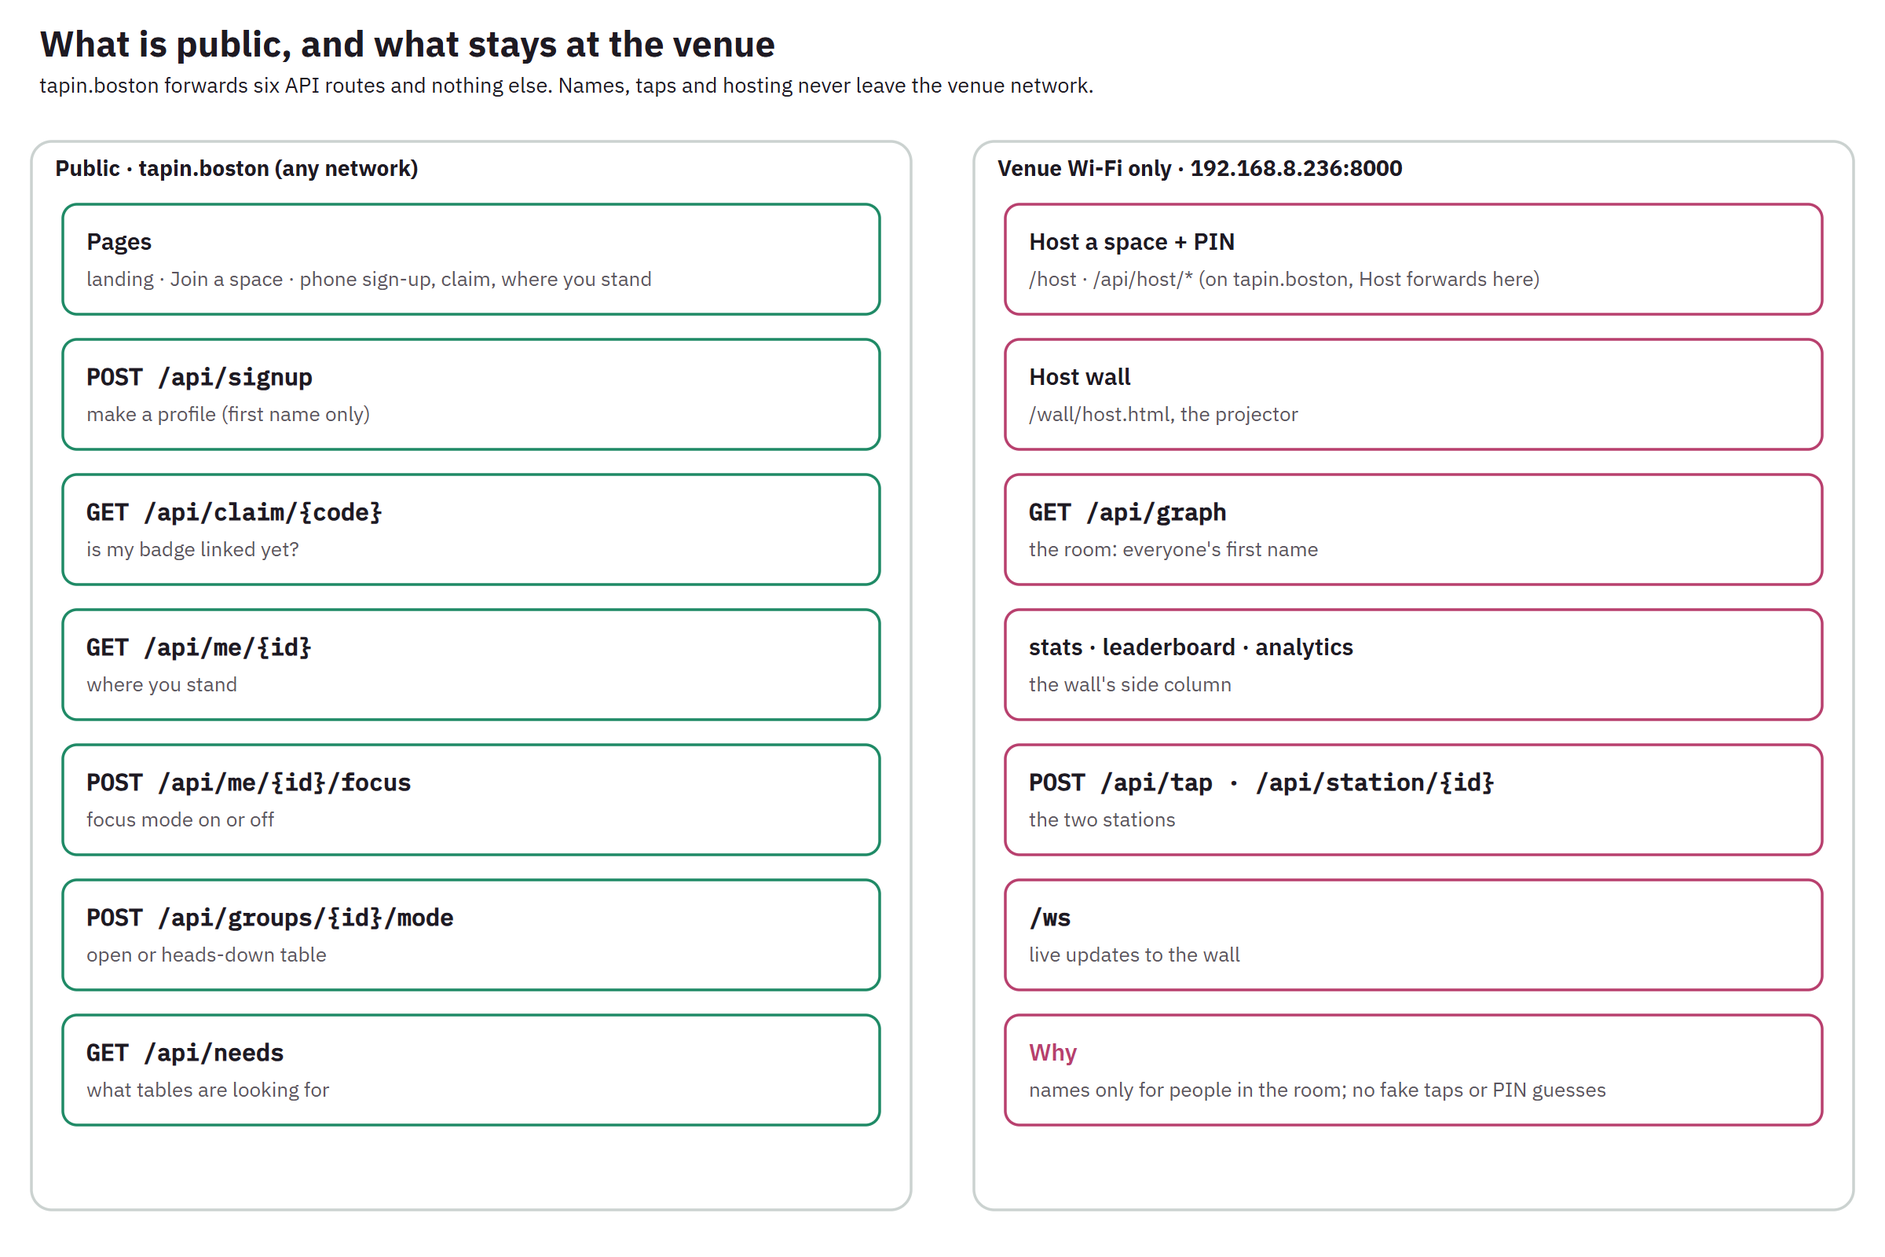
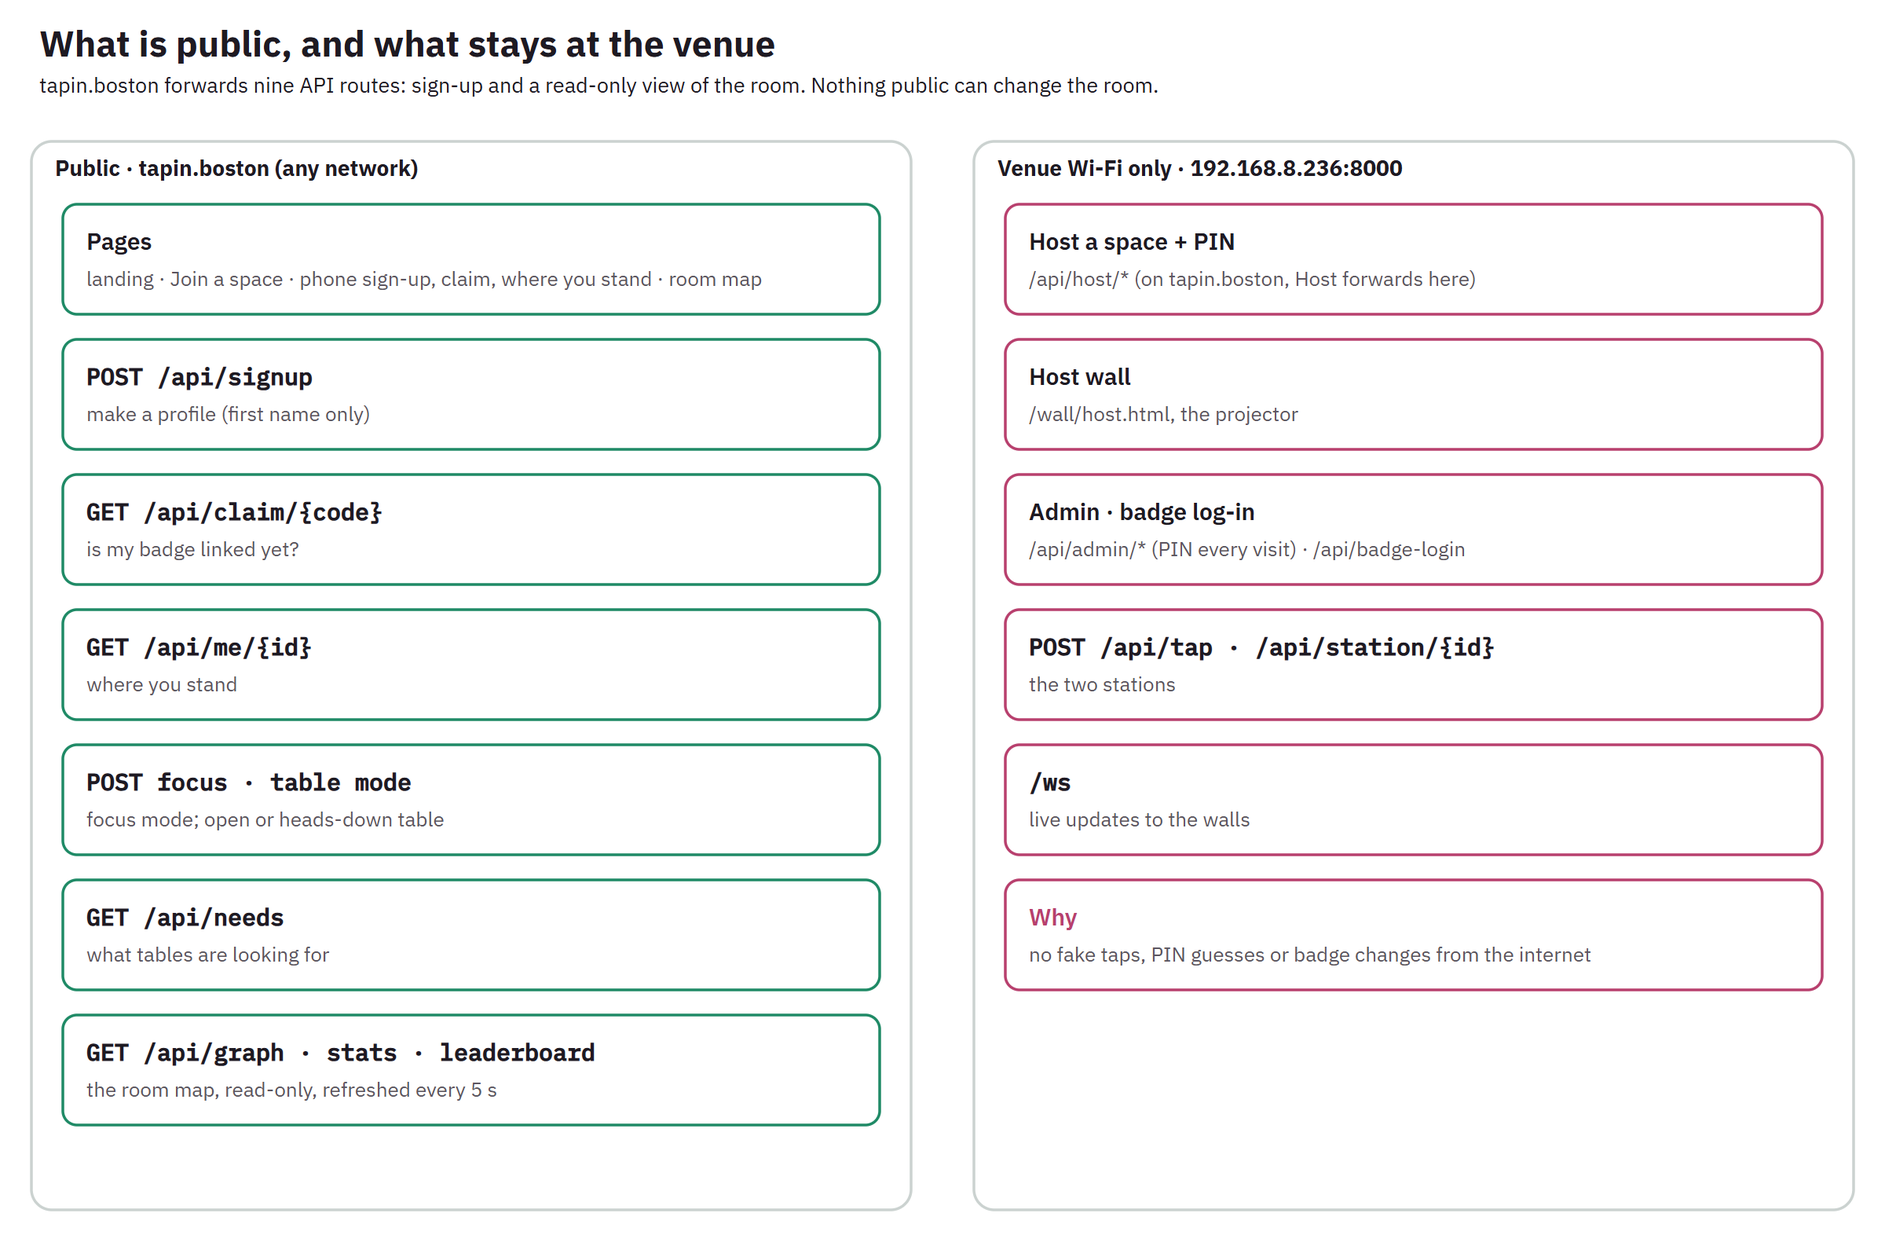
Devpost and README match tonight's build: one member tapping in joins a table, 6 s window, the public room map (nine routes), admin and badge log-in venue-only, PR count, live tapin.boston, setup paths, station config, the hourly aggregate; access.png re-rendered

diff --git a/media/devpost/src/diagrams.py b/media/devpost/src/diagrams.py
@@ -293,28 +293,27 @@ def system():
 def access():
     c = Canvas(2400, 1600)
     c.text(50, 72, "What is public, and what stays at the venue", size=46, weight=700)
-    c.text(50, 118, "tapin.boston forwards six API routes and nothing else. Names, taps and hosting never leave the venue network.", size=27)
+    c.text(50, 118, "tapin.boston forwards nine API routes: sign-up and a read-only view of the room. Nothing public can change the room.", size=27)
     c.group(40, 180, 1120, 1360, "Public · tapin.boston (any network)")
-    rows = [("Pages", "landing · Join a space · phone sign-up, claim, where you stand"),
+    rows = [("Pages", "landing · Join a space · phone sign-up, claim, where you stand · room map"),
             ("POST /api/signup", "make a profile (first name only)"),
             ("GET /api/claim/{code}", "is my badge linked yet?"),
             ("GET /api/me/{id}", "where you stand"),
-            ("POST /api/me/{id}/focus", "focus mode on or off"),
-            ("POST /api/groups/{id}/mode", "open or heads-down table"),
-            ("GET /api/needs", "what tables are looking for")]
+            ("POST focus · table mode", "focus mode; open or heads-down table"),
+            ("GET /api/needs", "what tables are looking for"),
+            ("GET /api/graph · stats · leaderboard", "the room map, read-only, refreshed every 5 s")]
     for i, (a, b) in enumerate(rows):
         y = 260 + i * 172
         c.rect(80, y, 1040, 140, stroke=GREEN, fill="#fff", sw=3.5, rx=18)
         c.text(110, y + 58, a, size=30, weight=600, mono=a.startswith(("POST", "GET")))
         c.text(110, y + 104, b, size=26, color=SOFT)
     c.group(1240, 180, 1120, 1360, "Venue Wi-Fi only · 192.168.8.236:8000")
-    rows = [("Host a space + PIN", "/host · /api/host/* (on tapin.boston, Host forwards here)"),
+    rows = [("Host a space + PIN", "/api/host/* (on tapin.boston, Host forwards here)"),
             ("Host wall", "/wall/host.html, the projector"),
-            ("GET /api/graph", "the room: everyone's first name"),
-            ("stats · leaderboard · analytics", "the wall's side column"),
+            ("Admin · badge log-in", "/api/admin/* (PIN every visit) · /api/badge-login"),
             ("POST /api/tap · /api/station/{id}", "the two stations"),
-            ("/ws", "live updates to the wall"),
-            ("Why", "names only for people in the room; no fake taps or PIN guesses")]
+            ("/ws", "live updates to the walls"),
+            ("Why", "no fake taps, PIN guesses or badge changes from the internet")]
     for i, (a, b) in enumerate(rows):
         y = 260 + i * 172
         c.rect(1280, y, 1040, 140, stroke=RASP, fill="#fff", sw=3.5, rx=18)

diff --git a/README.md b/README.md
@@ -4,7 +4,7 @@
 
 <!-- Demo GIF goes here once the 5 PM checkpoint works: docs/tap-to-wall.gif (a badge tap lighting up the wall). -->
 
-Built at BostonHacks 2026 for the **Boundless Boston** track and the **Spark! Hack Our Space** subtrack. We plan to serve it at tapin.boston (not registered yet).
+Built at BostonHacks 2026 for the **Boundless Boston** track and the **Spark! Hack Our Space** subtrack. Live at **[tapin.boston](https://tapin.boston)**.
 
 ## The problem
 
@@ -20,14 +20,17 @@ There is one action: **tap**. The server groups taps that land on the same stati
 |---|---|
 | 1 badge | **Check-in.** You light up on the wall as "here now", with lines to people you already know and the open groups that fit you. |
 | 2+ badges, none in a group | **New group.** Everyone is linked to each other and lands on the map as one cluster. |
-| 2+ badges, one already in a group | **Join.** The others join that group and get linked to every member. |
+| 2+ badges, one already at a table | **Join.** The others join that table (the one at this station wins; otherwise the table with the most people in the scan) and leave their old table. Everyone in the scan is linked. |
 | A mentor or staff badge in the scan | **Help.** The group's need is marked handled and the mentor shows as a bridge between groups. |
 | Everyone already met | **Repeat.** No points; the connection gets stronger. |
 
-A join only counts when the whole group scans in at the same station, so the hardware itself proves people actually met.
+A join only counts when the newcomer and someone from the table tap the same station together, so the hardware itself proves people actually met. A person is in one station's scan at a time.
 
 - **Phone site:** sign up in about 30 seconds (first name, up to 3 skills, up to 2 "looking for" tags), then tap any blank badge to claim it. Your "where you stand" page shows people you know who are here, your top groups with a reason ("Table 2 needs firmware"), and your points.
-- **Wall display:** a live room view where each group is a cluster labeled with its table and what it's building, plus stats, a leaderboard, a needs board, and an activity log. It plays a pentatonic bell when someone arrives and a pluck for every new link.
+- **Host wall** (`/wall/host.html`, the projector): the room plan with tables by letter, stats, groups by points, a needs board and an activity log. Every event plays a note from one pentatonic scale: a bell in your own note when you arrive, plucks for new links, a trolley bell every 10th person. Quiet mode (`?mode=quiet`, or the gear panel) is for study hours.
+- **Room map** (`/wall/`): your own view of the room on your phone, with your table, the people you know and your profile.
+- **Front door:** `/landing/` with Join a space (sign up, or log in by tapping your badge) and Host a space (host PIN, then create or open an event).
+- **Admin** (`/host/admin.html`, venue network, PIN every visit): unlink a badge, give someone a new badge with live status, remove test profiles.
 - **Modes:** groups can be open or heads-down, and people can check in on focus mode. Heads-down groups and focus people are never suggested.
 - **Points:** +1 for your first check-in of the day, +5 for each new person you connect with, +10 for joining a group, and +5 to each current member when someone joins. The group's points double when the newcomer had fewer than 2 connections.
 
@@ -68,9 +71,8 @@ Phone screenshots were taken in FAKE mode (hard-coded sample data, no server), u
 
 ## From the build
 
-| The wall, demo mode | Building on Saturday |
-|---|---|
-| ![The wall in demo mode: tables as clusters with their needs, a check-in ring, and the template suggestion line](docs/media/wall-demo.gif) |
+![The wall in demo mode: tables as clusters with their needs, a check-in ring, and the template suggestion line](docs/media/wall-demo.gif)
+
 The wall recording is in demo mode with sample people, not real sign-ups. Full 29 s clip: [docs/media/wall-demo.mov](docs/media/wall-demo.mov).
 
 ## Station wiring
@@ -122,8 +124,10 @@ python tools/check_db.py          # checks the database connection and Timescale
 uvicorn server.main:app --host 0.0.0.0 --port 8000
 ```
 
-- Wall: `http://<server-ip>:8000/wall`. Click **Start** once to enable sound.
-- Phone: `http://<server-ip>:8000/phone`
+- Front door: `http://<server-ip>:8000/landing/`
+- Host wall (projector): `http://<server-ip>:8000/wall/host.html`. Sound starts on the first click.
+- Phone sign-up: `http://<server-ip>:8000/phone/`
+- Admin: `http://<server-ip>:8000/host/admin.html` (needs `HOST_PIN` in `.env`)
 - No internet? Run the same schema on a local TimescaleDB with `docker run -d -p 5432:5432 -e POSTGRES_PASSWORD=tapin timescale/timescaledb:latest-pg16`, then point `DATABASE_URL` at it.
 
 **Without hardware:**
@@ -139,7 +143,7 @@ python tools/count.py                                           # real people, g
 
 Fake badges always start with `5EED`, so `count.py` reports only real people. Never run `tools/seed.py --reset` after recruiting starts: it deletes every real sign-up.
 
-**Stations:** open `firmware/station.ino` in the Arduino IDE with ESP32 support installed, set `STATION_ID` (1 or 2) at the top, and upload. Stations join the private 2.4 GHz `TapIn` network and talk to the server at `192.168.8.100:8000`.
+**Stations:** open `firmware/station.ino` in the Arduino IDE with ESP32 support installed, set `STATION_ID` (1 or 2) at the top, and upload. Put the Wi-Fi name and password, and the server's address as `SERVER_URL`, in `firmware/station/secrets.h` (copy `secrets.example.h`). At the venue that's the 2.4 GHz `cmap` network and `http://192.168.8.236:8000`.
 
 ## Built on Tiger Data
 
@@ -149,7 +153,8 @@ Taps are time-series data, so Tap In runs on [Tiger Data](https://www.tigerdata.
 |---|---|---|
 | `taps` | hypertable on `ts` | Every raw tap: station, badge UID and result |
 | `scan_events` | hypertable on `ts` | Every resolved scan: check-in, join, new group, repeat or help, with its size and group |
-| `scans_per_10min` | continuous aggregate (being added with the stats panel) | Scans per 10 minutes by station and kind, for the live stats chart |
+| `scans_per_10min` | real-time continuous aggregate | Scans per 10 minutes by station and kind, for the live stats chart |
+| `scans_per_hour` | hierarchical continuous aggregate on `scans_per_10min` | Scans per hour by station, for the busiest-station view |
 | `people`, `groups`, `group_members`, `connections`, `needs` | regular tables | Profiles, groups, the connection graph and open needs |
 
 ```sql
@@ -205,9 +210,9 @@ tools/board unread      # catch up on the board
 - **Server:** [FastAPI](https://fastapi.tiangolo.com), [Uvicorn](https://www.uvicorn.org), [asyncpg](https://github.com/MagicStack/asyncpg), [HTTPX](https://www.python-httpx.org)
 - **Database:** [Tiger Data](https://www.tigerdata.com) / [TimescaleDB](https://github.com/timescale/timescaledb)
 - **AI:** [Google Gemini API](https://ai.google.dev)
-- **Wall display:** [d3](https://d3js.org), [Tone.js](https://tonejs.github.io), [IBM Plex](https://github.com/IBM/plex)
+- **Wall display:** [Tone.js](https://tonejs.github.io), [IBM Plex](https://github.com/IBM/plex), [Bricolage Grotesque](https://fonts.google.com/specimen/Bricolage+Grotesque), [DotGothic16](https://fonts.google.com/specimen/DotGothic16)
 - **Firmware:** [MFRC522](https://github.com/miguelbalboa/rfid), [Adafruit NeoPixel](https://github.com/adafruit/Adafruit_NeoPixel), [ArduinoJson](https://arduinojson.org), [Arduino core for ESP32](https://github.com/espressif/arduino-esp32)
-- **Domain:** tapin.boston, planned through the [GoDaddy Registry](https://www.godaddy.com/registry) offer (not registered yet)
+- **Domain:** [tapin.boston](https://tapin.boston), served from Vercel; the server is reached through a Cloudflare tunnel
 - **Agent board:** the hackathon agent board template
 
 ## License

diff --git a/docs/devpost-story.md b/docs/devpost-story.md
@@ -7,11 +7,11 @@ Sponsor Notes with one section per track, prose paragraphs. People numbers come 
 
 ## Inspiration
 
-Boston is America's college city, and it is easy to be alone in it. You walk into a library, a lab or a hackathon room full of students, and nothing tells you which table to walk up to, so you sit alone next to a group you could have joined. Every shared space we know has the same gap: a room full of people who would help each other, and no way for a newcomer to see where they fit. Spark!'s own list of ideas includes RFID taps that trigger sounds. We built that, with one rule on top: joining a table only counts when everyone taps the same station together, so the room itself proves people met.
+Boston is America's college city, and it is easy to be alone in it. You walk into a library, a lab or a hackathon room full of students, and nothing tells you which table to walk up to, so you sit alone next to a group you could have joined. Every shared space we know has the same gap: a room full of people who would help each other, and no way for a newcomer to see where they fit. Spark!'s own list of ideas includes RFID taps that trigger sounds. We built that, with one rule on top: you only join a table by tapping the same station together with someone from it, so the room itself proves people met.
 
 ## What it does
 
-You make a profile on your phone in about 30 seconds (first name, role, skills, what you're looking for and what you're up to today, which can be "Just hanging out"), then tap any blank badge on a station and it becomes yours. From then on there is one action: tap your badge. Alone, it checks you in, and your phone shows who you already know here, which table needs you and why, and your points. Tap together with a table and you join it: everyone is linked, everyone earns points, and a mentor who taps in counts as help. The projector shows the room as it happens, with tables by letter, open needs and the latest activity, and every event plays a note from one pentatonic scale. A host sets up the event with a PIN on the venue Wi-Fi and can switch the room to quiet mode for study hours.
+You make a profile on your phone in about 30 seconds (first name, role, skills, what you're looking for and what you're up to today, which can be "Just hanging out"), then tap any blank badge on a station and it becomes yours. From then on there is one action: tap your badge. Alone, it checks you in, and your phone shows who you already know here, which table needs you and why, and your points. Tap the same station together with someone from a table and you join it (leaving your old table): everyone in the scan is linked, everyone earns points, and a mentor who taps in counts as help. Coming back later, you log in by tapping your badge on the join page. The projector shows the room as it happens, with tables by letter, open needs and the latest activity, and every event plays a note from one pentatonic scale. A host sets up the event with a PIN on the venue Wi-Fi and can switch the room to quiet mode for study hours.
 
 ## How we built it
 
@@ -21,7 +21,7 @@ Each station is an ESP32 and an RC522 reader in a box, reading through the lid. 
 
 ### Server
 
-Python FastAPI on one laptop on the venue Wi-Fi. Each station has a scan window of 4 seconds that restarts on every tap, and the same badge within 3 seconds counts once. When the window closes, one database transaction decides what the scan means (check-in, new group, join, help or repeat), awards points and pushes the result over a WebSocket.
+Python FastAPI on one laptop on the venue Wi-Fi. Each station has a scan window of 6 seconds that restarts on every tap, and the same badge within 3 seconds counts once. When the window closes, one database transaction decides what the scan means (check-in, new group, join, help or repeat), awards points and pushes the result over a WebSocket.
 
 ### Wall and phone
 
@@ -29,7 +29,7 @@ The wall is plain JavaScript on a canvas with Tone.js for sound. The phone pages
 
 ### tapin.boston
 
-The pages are static files on Vercel. Six API routes (sign-up, claim, where you stand, focus, table mode and needs) reach the laptop through a Cloudflare tunnel. Names, taps, hosting and live updates never leave the venue network.
+The pages are static files on Vercel. Nine API routes reach the laptop through a Cloudflare tunnel: sign-up, claim, where you stand, focus, table mode and needs, plus a read-only view of the room (graph, stats and leaderboard), which the public room map refreshes every 5 seconds because Vercel doesn't carry WebSockets. Taps, stations, hosting, badge log-in and the admin page never leave the venue network.
 
 ![How Tap In fits together](https://github.com/BU-Hackathonz/TapIn/blob/main/media/devpost/system.png?raw=true)
 
@@ -45,7 +45,7 @@ Most of Boston's students work in shared rooms: libraries, dorm lounges, labs an
 
 #### INTERACTION IS THE INPUT
 
-A join only counts when everyone taps the same station within seconds of each other. The scan is the proof that people met, and nobody can join a table from across the room.
+A join only counts when the newcomer and someone already at the table tap the same station within 6 seconds of each other. The scan is the proof that people met, and nobody can join a table from across the room.
 
 #### TAPS THAT PLAY
 
@@ -57,7 +57,7 @@ Every event and its sound, all from one pentatonic scale.
 
 #### FOR THE SPACE'S STAFF
 
-The wall's needs list shows what each open table is looking for and how long it has waited. Hosts set the room up with a PIN, and an admin page on the venue network can unlink a badge from a person so it can be handed to someone else.
+The wall's needs list shows what each open table is looking for and how long it has waited. Hosts set the room up with a PIN, and an admin page on the venue network can unlink a badge from a person so it can be handed to someone else, or give someone a new badge, with live status as it lands.
 
 #### EVIDENCE
 
@@ -82,11 +82,11 @@ Taps arrive milliseconds apart, sometimes at two stations at once, so each stati
 
 ## Accomplishments that we're proud of
 
-Both stations passed soak tests, a server outage and a router unplug, and recovered on their own every time. A phone on any network can sign up at tapin.boston while names, taps and hosting stay on the venue network. And four people merged 105 pull requests in about 24 hours without breaking main, each working with a coding agent, all coordinating on one pinned GitHub issue.
+Both stations passed soak tests, a server outage and a router unplug, and recovered on their own every time. A phone on any network can sign up at tapin.boston while names, taps and hosting stay on the venue network. And four people merged more than 115 pull requests in about 24 hours without breaking main, each working with a coding agent, all coordinating on one pinned GitHub issue.
 
 ## What we learned
 
-Writing every JSON shape down before coding let the stations, server, wall and phone meet on the first try. Measuring beat assuming every time: the Gemini model in our plan didn't exist for our key, and timing the alternatives with our real prompt picked the one we use. And deciding what is public on purpose, six routes and nothing else, kept names, taps and the host PIN off the internet.
+Writing every JSON shape down before coding let the stations, server, wall and phone meet on the first try. Measuring beat assuming every time: the Gemini model in our plan didn't exist for our key, and timing the alternatives with our real prompt picked the one we use. And deciding what is public on purpose kept taps, hosting and the host PIN off the internet: the public site can sign people up and show the room, but nothing on it can change the room.
 
 ## What's next for Tap In
 

diff --git a/docs/devpost.md b/docs/devpost.md
@@ -25,13 +25,13 @@ we submit by **8:45 AM**. Items marked **(refresh 8:15)** come from `tools/count
 
 ## Short summary (if a field asks for one)
 
-Boston is full of students sitting alone in rooms full of people. Tap In is two badge stations, a room display and a phone page: tap your badge when you arrive and you see who you already know and which table needs your skills. Joining a table only counts when everyone taps the same station together, so the room proves people met, and every tap plays a sound in your own note.
+Boston is full of students sitting alone in rooms full of people. Tap In is two badge stations, a room display and a phone page: tap your badge when you arrive and you see who you already know and which table needs your skills. Joining a table only counts when you tap the same station together with someone from it, so the room proves people met, and every tap plays a sound in your own note.
 
 ## Links
 
 - **Video demo:** `VIDEO LINK FROM YAOVI` (placeholder)
 - **GitHub:** https://github.com/BU-Hackathonz/TapIn
-- **Try it:** https://tapin.boston (landing and the real phone sign-up; the room and hosting run on the venue Wi-Fi)
+- **Try it:** https://tapin.boston (landing, phone sign-up and the room map; hosting runs on the venue Wi-Fi)
 
 ## Built with
 
